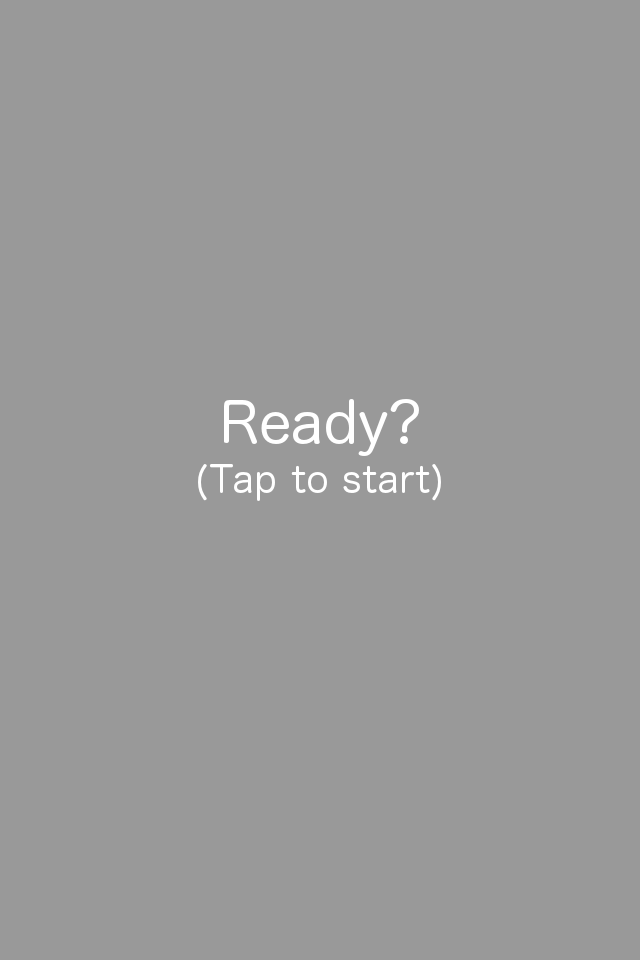
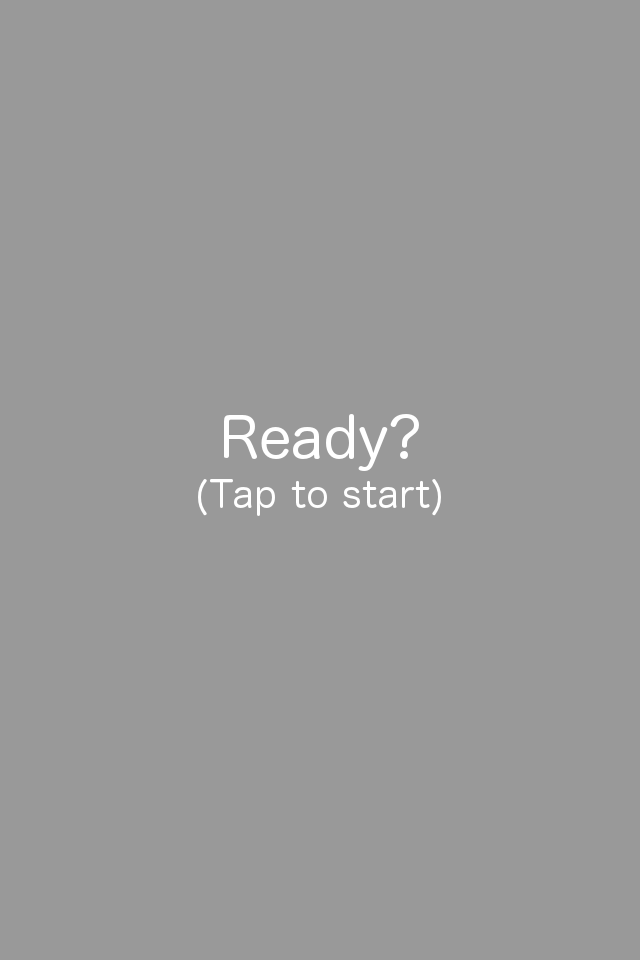
New credits screen added and appearance of the ready layer changed.

Changed region(s): [[0.3125, 0.4062, 0.6875, 0.5312]]

diff --git a/Lumio/CreditsLayer.m b/Lumio/CreditsLayer.m
@@ -1,0 +1,75 @@
+//
+//  Credits Layer.m
+//  Lumio
+//
+//  Created by Joanne Dyer on 2/27/13.
+//  Copyright 2013 __MyCompanyName__. All rights reserved.
+//
+
+#import "CreditsLayer.h"
+#import "AboutLayer.h"
+
+@interface CreditsLayer ()
+
+//these properties exist to pass on the information to the main menu layer when it is recreated.
+@property (nonatomic, strong) BaseMenuLayer *baseMenuLayer;
+@property (nonatomic) BOOL showContinue;
+
+@end
+
+@implementation CreditsLayer
+
+@synthesize baseMenuLayer = _baseMenuLayer;
+@synthesize showContinue = _showContinue;
+
+- (id)initWithBaseLayer:(BaseMenuLayer *)baseLayer showContinue:(BOOL)showContinue
+{
+    if (self = [super init]) {
+        self.baseMenuLayer = baseLayer;
+        self.showContinue = showContinue;
+        
+        // ask director for the window size
+        CGSize size = [[CCDirector sharedDirector] winSize];
+        
+        //add the background image showing the credits
+        CCSprite *background = [CCSprite spriteWithFile:@"CreditsBackground.png"];
+        background.position = ccp(size.width/2, size.height/2);
+        [self addChild:background];
+        
+        //Create the license menu item.
+        CCMenuItemImage *licenseMenuItem = [CCMenuItemImage
+                                            itemWithNormalImage:@"LicenseButton.png"
+                                            selectedImage:@"LicenseButtonSelected.png"
+                                            target:self
+                                            selector:@selector(licenseButtonTapped:)];
+        licenseMenuItem.position = ccp(158, 182);
+        
+        //Create the Backwards Menu Item and add to menu
+        CCMenuItemImage *backwardsMenuItem = [CCMenuItemImage
+                                              itemWithNormalImage:@"BackButton.png" selectedImage:@"BackButtonSelected.png"
+                                              target:self selector:@selector(backwardsButtonTapped:)];
+        backwardsMenuItem.position = ccp(76, 51);
+        
+        CCMenu *menu = [CCMenu menuWithItems:licenseMenuItem, backwardsMenuItem, nil];
+        menu.position = CGPointZero;
+        [self addChild:menu];
+    }
+    return self;
+}
+
+- (void)backwardsButtonTapped:(id)sender
+{
+    AboutLayer *aboutLayer = [[AboutLayer alloc] initWithBaseLayer:self.baseMenuLayer showContinue:self.showContinue];
+    [[[CCDirector sharedDirector] runningScene] addChild:aboutLayer z:2];
+    
+    [CCSequence actionOne:[self runAction:[CCFadeOut actionWithDuration:0.3]] two:[aboutLayer runAction:[CCFadeIn actionWithDuration:0.3]]];
+    [self removeFromParentAndCleanup:YES];
+}
+
+- (void)licenseButtonTapped:(id)sender
+{
+    NSString *urlstring = @"http://creativecommons.org/licenses/by-nc-sa/3.0/";
+    [[UIApplication sharedApplication] openURL: [NSURL URLWithString:urlstring]];
+}
+
+@end

diff --git a/Lumio/AboutLayer.m b/Lumio/AboutLayer.m
@@ -9,6 +9,7 @@
 #import "AboutLayer.h"
 #import "MainMenuLayer.h"
 #import "HowToPlayAimLayer.h"
+#import "CreditsLayer.h"
 #import "GameKitHelper.h"
 
 @interface AboutLayer ()
@@ -32,7 +33,7 @@
         
         //TODO for now show the selected button image for about as the tile of the page.
         CCSprite *aboutTitle = [CCSprite spriteWithFile:@"AboutButtonSelected.png"];
-        aboutTitle.position = ccp(160, 330);
+        aboutTitle.position = ccp(160, 340);
         [self addChild:aboutTitle];
         
         //Create the How To Play Menu Item.
@@ -50,8 +51,13 @@
                                           itemWithNormalImage:@"ReviewAppButton.png" selectedImage:@"ReviewAppButtonSelected.png"
                                           target:self selector:@selector(reviewAppButtonTapped:)];
         
-        CCMenu *menu = [CCMenu menuWithItems:howToPlayMenuItem, leaderboardMenuItem, reviewAppMenuItem, nil];
-        menu.position = ccp(160, 230);
+        //Create the Credits Menu Item.
+        CCMenuItemImage *creditsMenuItem = [CCMenuItemImage
+                                              itemWithNormalImage:@"CreditsButton.png" selectedImage:@"CreditsButtonSelected.png"
+                                              target:self selector:@selector(creditsButtonTapped:)];
+        
+        CCMenu *menu = [CCMenu menuWithItems:howToPlayMenuItem, leaderboardMenuItem, reviewAppMenuItem, creditsMenuItem, nil];
+        menu.position = ccp(160, 218); //230
         [menu alignItemsVerticallyWithPadding:10.0];
         [self addChild:menu];
         
@@ -73,7 +79,8 @@
     [[[CCDirector sharedDirector] runningScene] addChild:howToPlayLayer z:1];
     
     [CCSequence actionOne:[self runAction:[CCFadeOut actionWithDuration:0.3]] two:[howToPlayLayer runAction:[CCFadeIn actionWithDuration:0.3]]];
-    [self removeFromParentAndCleanup:YES];}
+    [self removeFromParentAndCleanup:YES];
+}
 
 - (void)leaderboardButtonTapped:(id)sender
 {
@@ -87,6 +94,15 @@
     NSString *appID = @"608072046";
     NSString *urlstring = [NSString stringWithFormat: @"itms-apps://ax.itunes.apple.com/WebObjects/MZStore.woa/wa/viewContentsUserReviews?type=Purple+Software&id=%@", appID];
     [[UIApplication sharedApplication] openURL: [NSURL URLWithString:urlstring]];
+}
+
+- (void)creditsButtonTapped:(id)sender
+{
+    CreditsLayer *creditsLayer = [[CreditsLayer alloc] initWithBaseLayer:self.baseMenuLayer showContinue:self.showContinue];
+    [[[CCDirector sharedDirector] runningScene] addChild:creditsLayer z:1];
+    
+    [CCSequence actionOne:[self runAction:[CCFadeOut actionWithDuration:0.3]] two:[creditsLayer runAction:[CCFadeIn actionWithDuration:0.3]]];
+    [self removeFromParentAndCleanup:YES];
 }
 
 - (void)backwardsButtonTapped:(id)sender

diff --git a/Lumio/CreditsLayer.h b/Lumio/CreditsLayer.h
@@ -1,0 +1,19 @@
+//
+//  Credits Layer.h
+//  Lumio
+//
+//  Created by Joanne Dyer on 2/27/13.
+//  Copyright 2013 __MyCompanyName__. All rights reserved.
+//
+
+#import <Foundation/Foundation.h>
+#import "cocos2d.h"
+#import "BaseMenuLayer.h"
+#import "CCLayerWithTransparency.h"
+
+@interface CreditsLayer : CCLayerWithTransparency {
+}
+
+- (id)initWithBaseLayer:(BaseMenuLayer *)baseLayer showContinue:(BOOL)showContinue;
+
+@end
